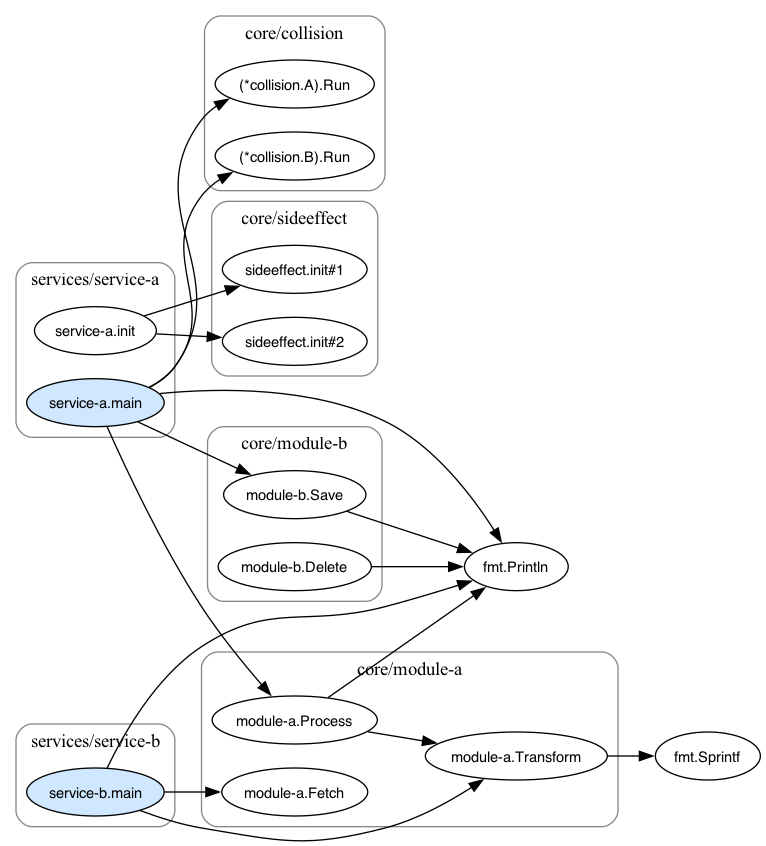
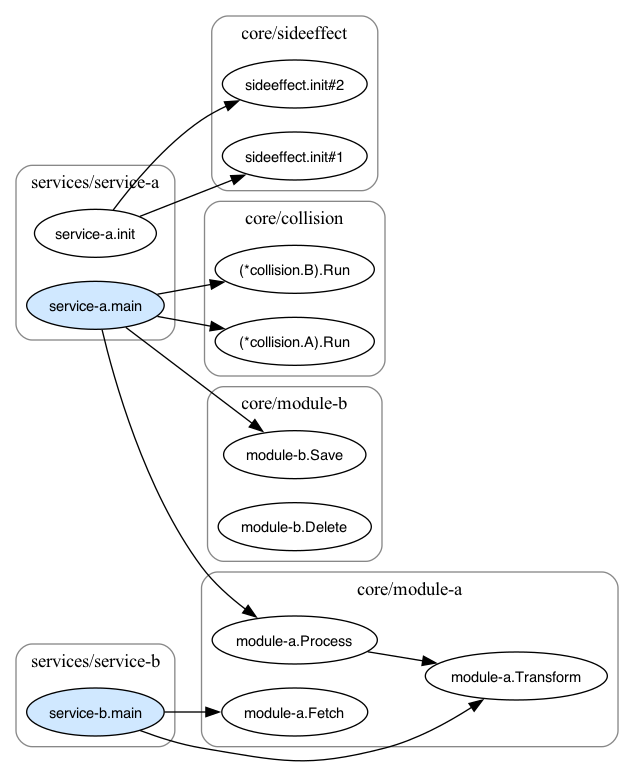
new implementations

Changed region(s): [[0.0, 0.0, 1.0, 1.0]]

diff --git a/cli/output_test.go b/cli/output_test.go
@@ -229,7 +229,7 @@ func fullDotGraph() *types.CallGraph {
 // appears as a quoted node ID somewhere in the DOT output.
 func TestFormatFullDot_AllNodesPresent(t *testing.T) {
 	graph := fullDotGraph()
-	out := formatFullDot(graph)
+	out := formatFullDot(graph, false)
 
 	for key := range graph.Nodes {
 		escaped := strings.NewReplacer(`\`, `\\`, `"`, `\"`).Replace(key)
@@ -243,7 +243,7 @@ func TestFormatFullDot_AllNodesPresent(t *testing.T) {
 // produces a corresponding "->" edge line in the DOT output.
 func TestFormatFullDot_EdgesEmitted(t *testing.T) {
 	graph := fullDotGraph()
-	out := formatFullDot(graph)
+	out := formatFullDot(graph, false)
 
 	// svc-a.main → lib.Process (cross-cluster edge)
 	assert.Contains(t, out,
@@ -260,7 +260,7 @@ func TestFormatFullDot_EdgesEmitted(t *testing.T) {
 // subgraph cluster per distinct owner in graph.FunctionOwner.
 func TestFormatFullDot_ClustersPerOwner(t *testing.T) {
 	graph := fullDotGraph()
-	out := formatFullDot(graph)
+	out := formatFullDot(graph, false)
 
 	// Two distinct owners: "services/svc-a" and "core/lib".
 	assert.Contains(t, out, `"services/svc-a"`, "cluster label services/svc-a must appear")
@@ -275,7 +275,7 @@ func TestFormatFullDot_ClustersPerOwner(t *testing.T) {
 // are double-quoted, including keys containing special characters (* # /).
 func TestFormatFullDot_NodeIDsQuoted(t *testing.T) {
 	graph := fullDotGraph()
-	out := formatFullDot(graph)
+	out := formatFullDot(graph, false)
 
 	for _, line := range strings.Split(out, "\n") {
 		trimmed := strings.TrimSpace(line)
@@ -302,7 +302,7 @@ func TestFormatFullDot_NodeIDsQuoted(t *testing.T) {
 // are rendered with the light-blue fill colour (#d0e8ff).
 func TestFormatFullDot_MainNodeHighlighted(t *testing.T) {
 	graph := fullDotGraph()
-	out := formatFullDot(graph)
+	out := formatFullDot(graph, false)
 
 	assert.Contains(t, out, `fillcolor="#d0e8ff"`,
 		"main function node must use light-blue fill to mark it as an entry point")
@@ -310,6 +310,60 @@ func TestFormatFullDot_MainNodeHighlighted(t *testing.T) {
 	assert.NotContains(t, out,
 		`"github.com/org/repo/core/lib.Process" [label="lib.Process", fillcolor="#d0e8ff"`,
 		"non-main node must not use the main-highlight fill colour")
+}
+
+// stdlibDotGraph returns a graph that has one internal dep and one stdlib dep
+// (fmt.Println — no "/" in the key) so we can test stdlib filtering.
+func stdlibDotGraph() *types.CallGraph {
+	return &types.CallGraph{
+		Nodes: map[string]types.Function{
+			"github.com/org/repo/services/svc.main": {
+				FullName: "github.com/org/repo/services/svc.main",
+				IsMain:   true,
+				Deps: []types.Dependency{
+					{FullName: "github.com/org/repo/core/lib.Process"},
+					{FullName: "fmt.Println"}, // stdlib — no "/"
+				},
+			},
+			"github.com/org/repo/core/lib.Process": {
+				FullName: "github.com/org/repo/core/lib.Process",
+				Deps: []types.Dependency{
+					{FullName: "fmt.Sprintf"}, // stdlib
+				},
+			},
+		},
+		FunctionOwner: map[string]string{
+			"github.com/org/repo/services/svc.main": "services/svc",
+			"github.com/org/repo/core/lib.Process":  "core/lib",
+		},
+	}
+}
+
+// TestFormatFullDot_StdlibFilteredByDefault asserts that stdlib function edges
+// (keys with no "/") are excluded when showStdlib is false.
+func TestFormatFullDot_StdlibFilteredByDefault(t *testing.T) {
+	out := formatFullDot(stdlibDotGraph(), false)
+
+	assert.NotContains(t, out, "fmt.Println",
+		"stdlib fmt.Println must be absent when showStdlib=false")
+	assert.NotContains(t, out, "fmt.Sprintf",
+		"stdlib fmt.Sprintf must be absent when showStdlib=false")
+
+	// Internal edges must still be present.
+	assert.Contains(t, out,
+		`"github.com/org/repo/services/svc.main" -> "github.com/org/repo/core/lib.Process"`,
+		"internal edge must still be emitted when stdlib is filtered")
+}
+
+// TestFormatFullDot_StdlibShownWithFlag asserts that stdlib function edges are
+// included when showStdlib is true.
+func TestFormatFullDot_StdlibShownWithFlag(t *testing.T) {
+	out := formatFullDot(stdlibDotGraph(), true)
+
+	assert.Contains(t, out, "fmt.Println",
+		"stdlib fmt.Println must appear when showStdlib=true")
+	assert.Contains(t, out, "fmt.Sprintf",
+		"stdlib fmt.Sprintf must appear when showStdlib=true")
 }
 
 func TestCountFiles(t *testing.T) {

diff --git a/cli/output.go b/cli/output.go
@@ -10,14 +10,23 @@ import (
 	"github.com/bubunyo/buildgraph/pkg/types"
 )
 
+// isStdlib reports whether a function key belongs to the Go standard library.
+//
+// Stdlib keys have no "/" in their name (e.g. "fmt.Println", "os.Exit").
+// All module-internal and third-party keys contain at least one "/" as part of
+// their import path (e.g. "github.com/org/pkg.Func").
+func isStdlib(key string) bool {
+	return !strings.Contains(key, "/")
+}
+
 // writeGraphOutput serialises a full call graph in the requested format and
 // writes it to outputPath (or stdout if outputPath is empty).
 // Currently only "dot" is supported; any other value is treated as "dot".
-func writeGraphOutput(graph *types.CallGraph, format, outputPath string) {
+func writeGraphOutput(graph *types.CallGraph, format, outputPath string, showStdlib bool) {
 	var output []byte
 	// Only dot is supported for now; treat anything else as dot too.
 	_ = format
-	output = []byte(formatFullDot(graph))
+	output = []byte(formatFullDot(graph, showStdlib))
 
 	if outputPath != "" {
 		if err := os.WriteFile(outputPath, output, 0644); err != nil {
@@ -43,7 +52,12 @@ func writeGraphOutput(graph *types.CallGraph, format, outputPath string) {
 //   - Every edge from node.Deps is emitted, including cross-cluster edges.
 //   - Node IDs are always double-quoted (same as formatDot) so the output is
 //     safe to pipe directly into `dot -Tpng`.
-func formatFullDot(graph *types.CallGraph) string {
+//
+// When showStdlib is false (the default), stdlib dependency edges are omitted.
+// Stdlib functions are identified by the absence of "/" in their key — all
+// module-internal and third-party packages have at least one "/" in their
+// import path, while stdlib functions like fmt.Println do not.
+func formatFullDot(graph *types.CallGraph, showStdlib bool) string {
 	dotID := func(fn string) string {
 		escaped := strings.NewReplacer(`\`, `\\`, `"`, `\"`).Replace(fn)
 		return `"` + escaped + `"`
@@ -104,7 +118,8 @@ func formatFullDot(graph *types.CallGraph) string {
 		clusterIdx++
 	}
 
-	// Emit all edges from Deps — unrestricted (cross-cluster included).
+	// Emit edges from Deps. When showStdlib is false, skip edges whose target
+	// is a stdlib function (no "/" in the key).
 	fmt.Fprintln(sb, "  // edges")
 	edgesSeen := make(map[string]bool)
 	// Iterate in sorted key order for determinism.
@@ -116,6 +131,9 @@ func formatFullDot(graph *types.CallGraph) string {
 	for _, key := range nodeKeys {
 		node := graph.Nodes[key]
 		for _, dep := range node.Deps {
+			if !showStdlib && isStdlib(dep.FullName) {
+				continue
+			}
 			edgeKey := key + "->" + dep.FullName
 			if edgesSeen[edgeKey] {
 				continue

diff --git a/cli/graph.go b/cli/graph.go
@@ -18,13 +18,18 @@ Pipe the output into dot(1) to render an image:
   buildgraph graph | dot -Tsvg -o graph.svg
 
 The diagram groups functions into clusters by owner (service / library).
-Main-package entry points are highlighted in light blue.`,
+Main-package entry points are highlighted in light blue.
+
+Standard library functions (fmt.Println, os.Exit, etc.) are excluded by
+default to keep the graph focused on your own code. Use --stdlib to include
+them.`,
 	RunE: runGraph,
 }
 
 func init() {
 	graphCmd.Flags().StringP("format", "f", "dot", "Output format (dot)")
 	graphCmd.Flags().StringP("output", "o", "", "Output file (default: stdout)")
+	graphCmd.Flags().Bool("stdlib", false, "Include standard library functions in the graph")
 }
 
 func runGraph(cmd *cobra.Command, _ []string) error {
@@ -49,7 +54,8 @@ func runGraph(cmd *cobra.Command, _ []string) error {
 
 	format, _ := cmd.Flags().GetString("format")
 	output, _ := cmd.Flags().GetString("output")
-	writeGraphOutput(graph, format, output)
+	showStdlib, _ := cmd.Flags().GetBool("stdlib")
+	writeGraphOutput(graph, format, output, showStdlib)
 
 	return nil
 }
